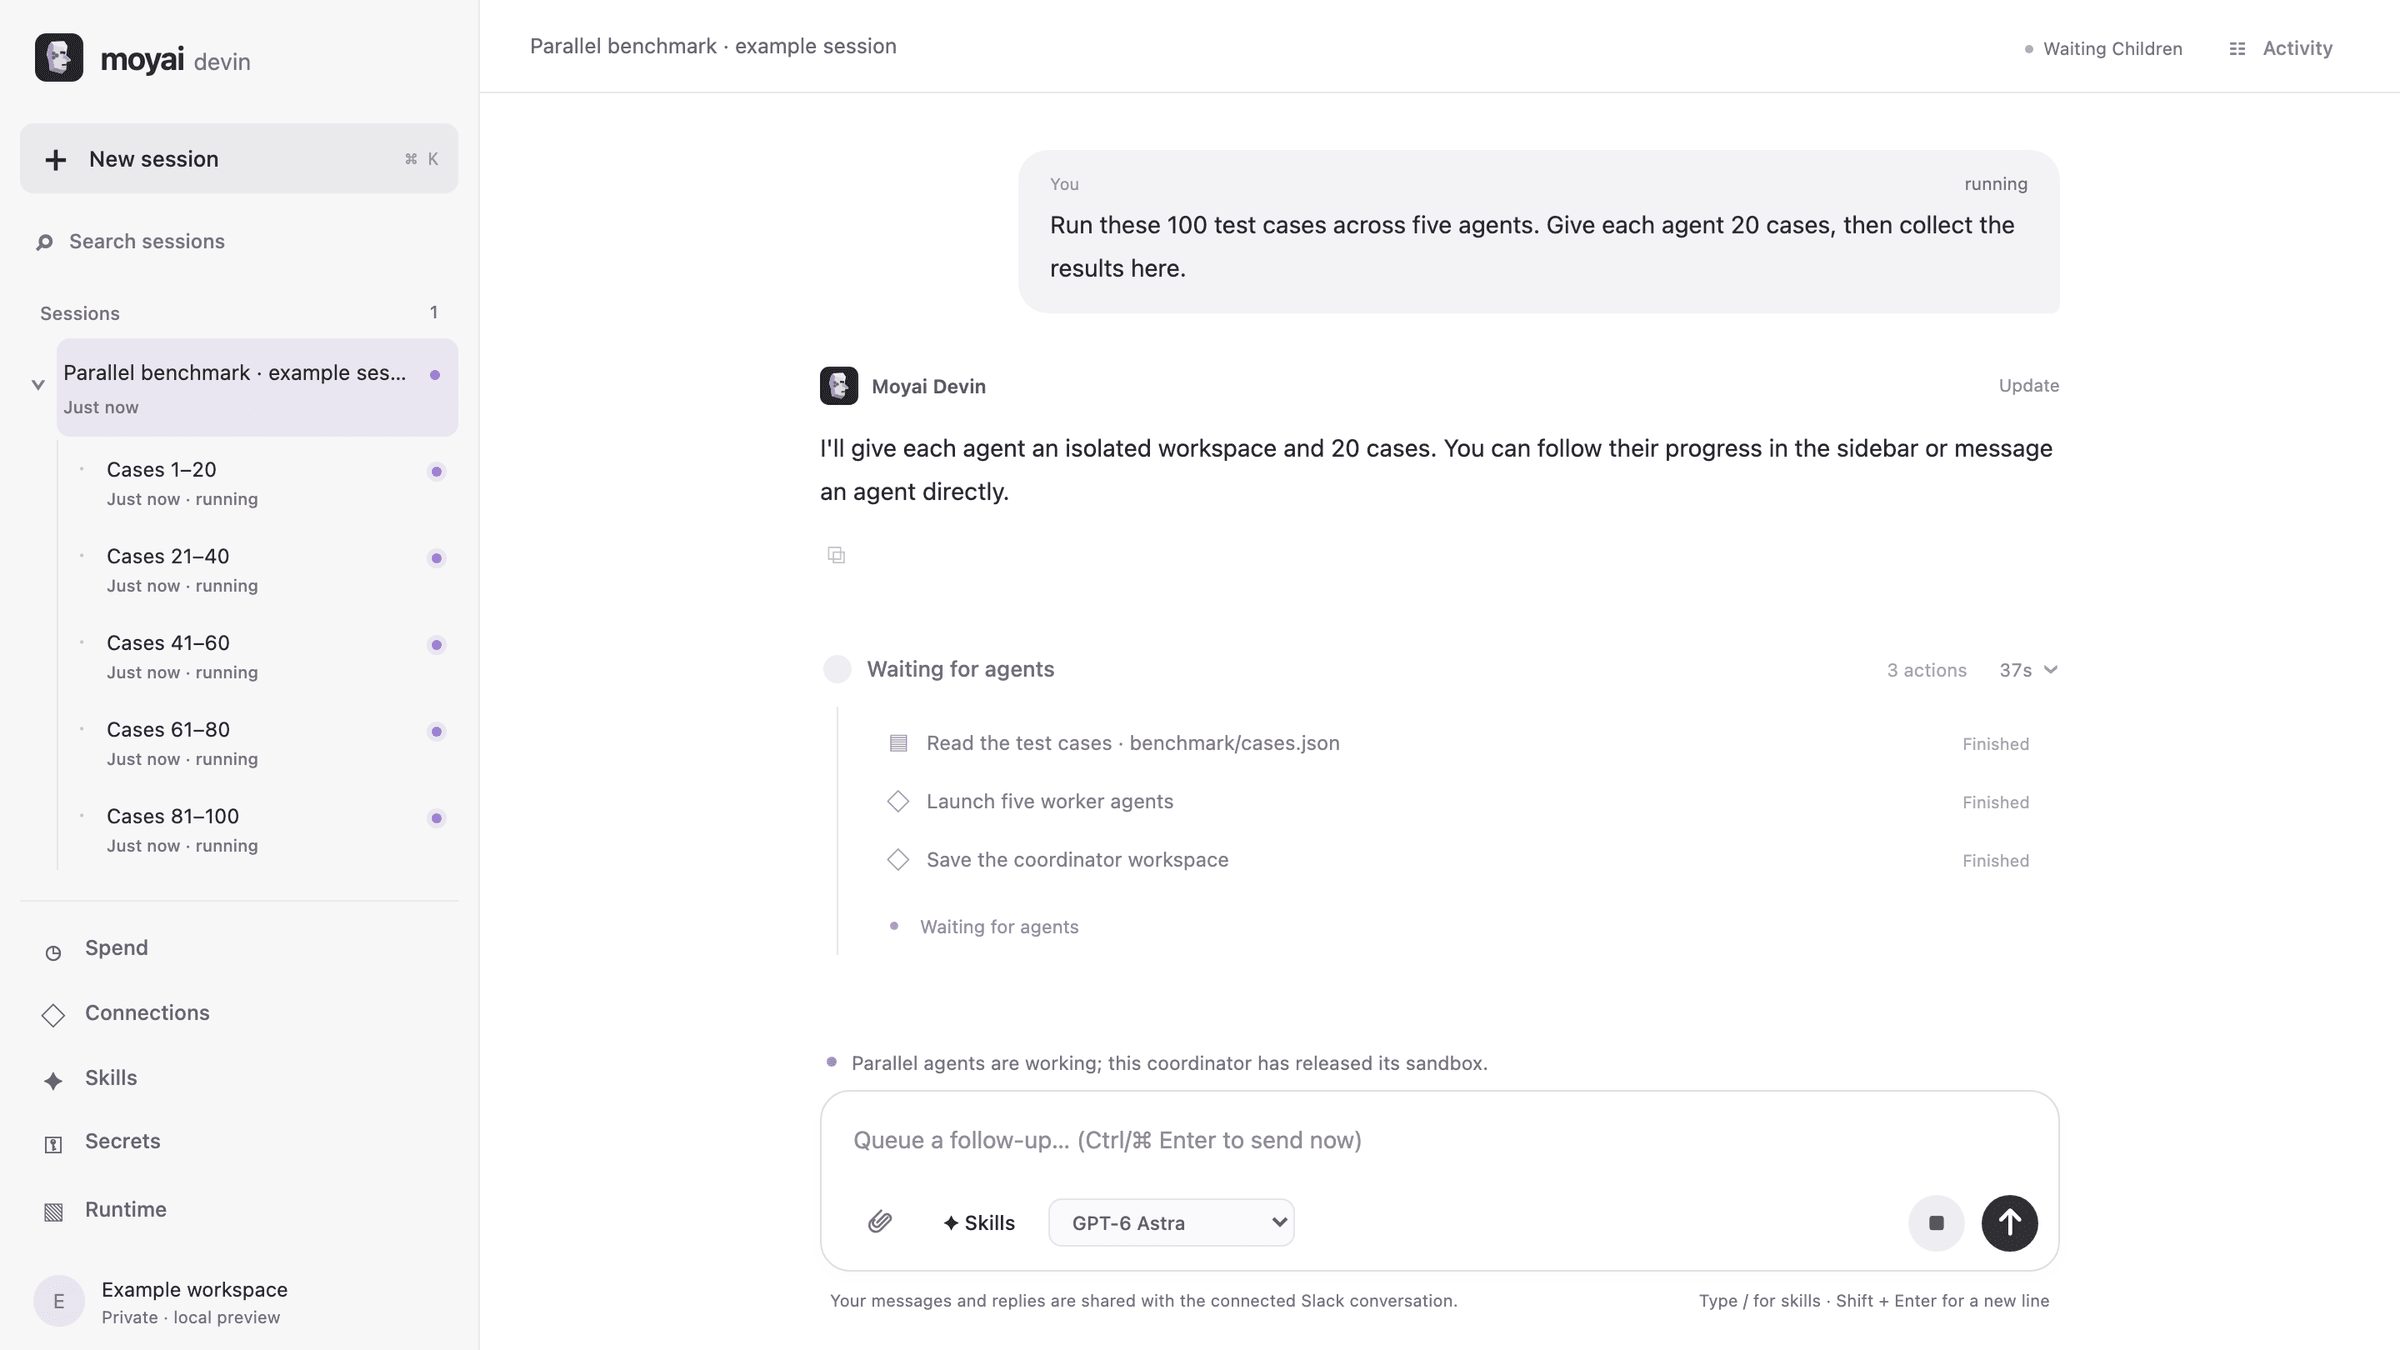
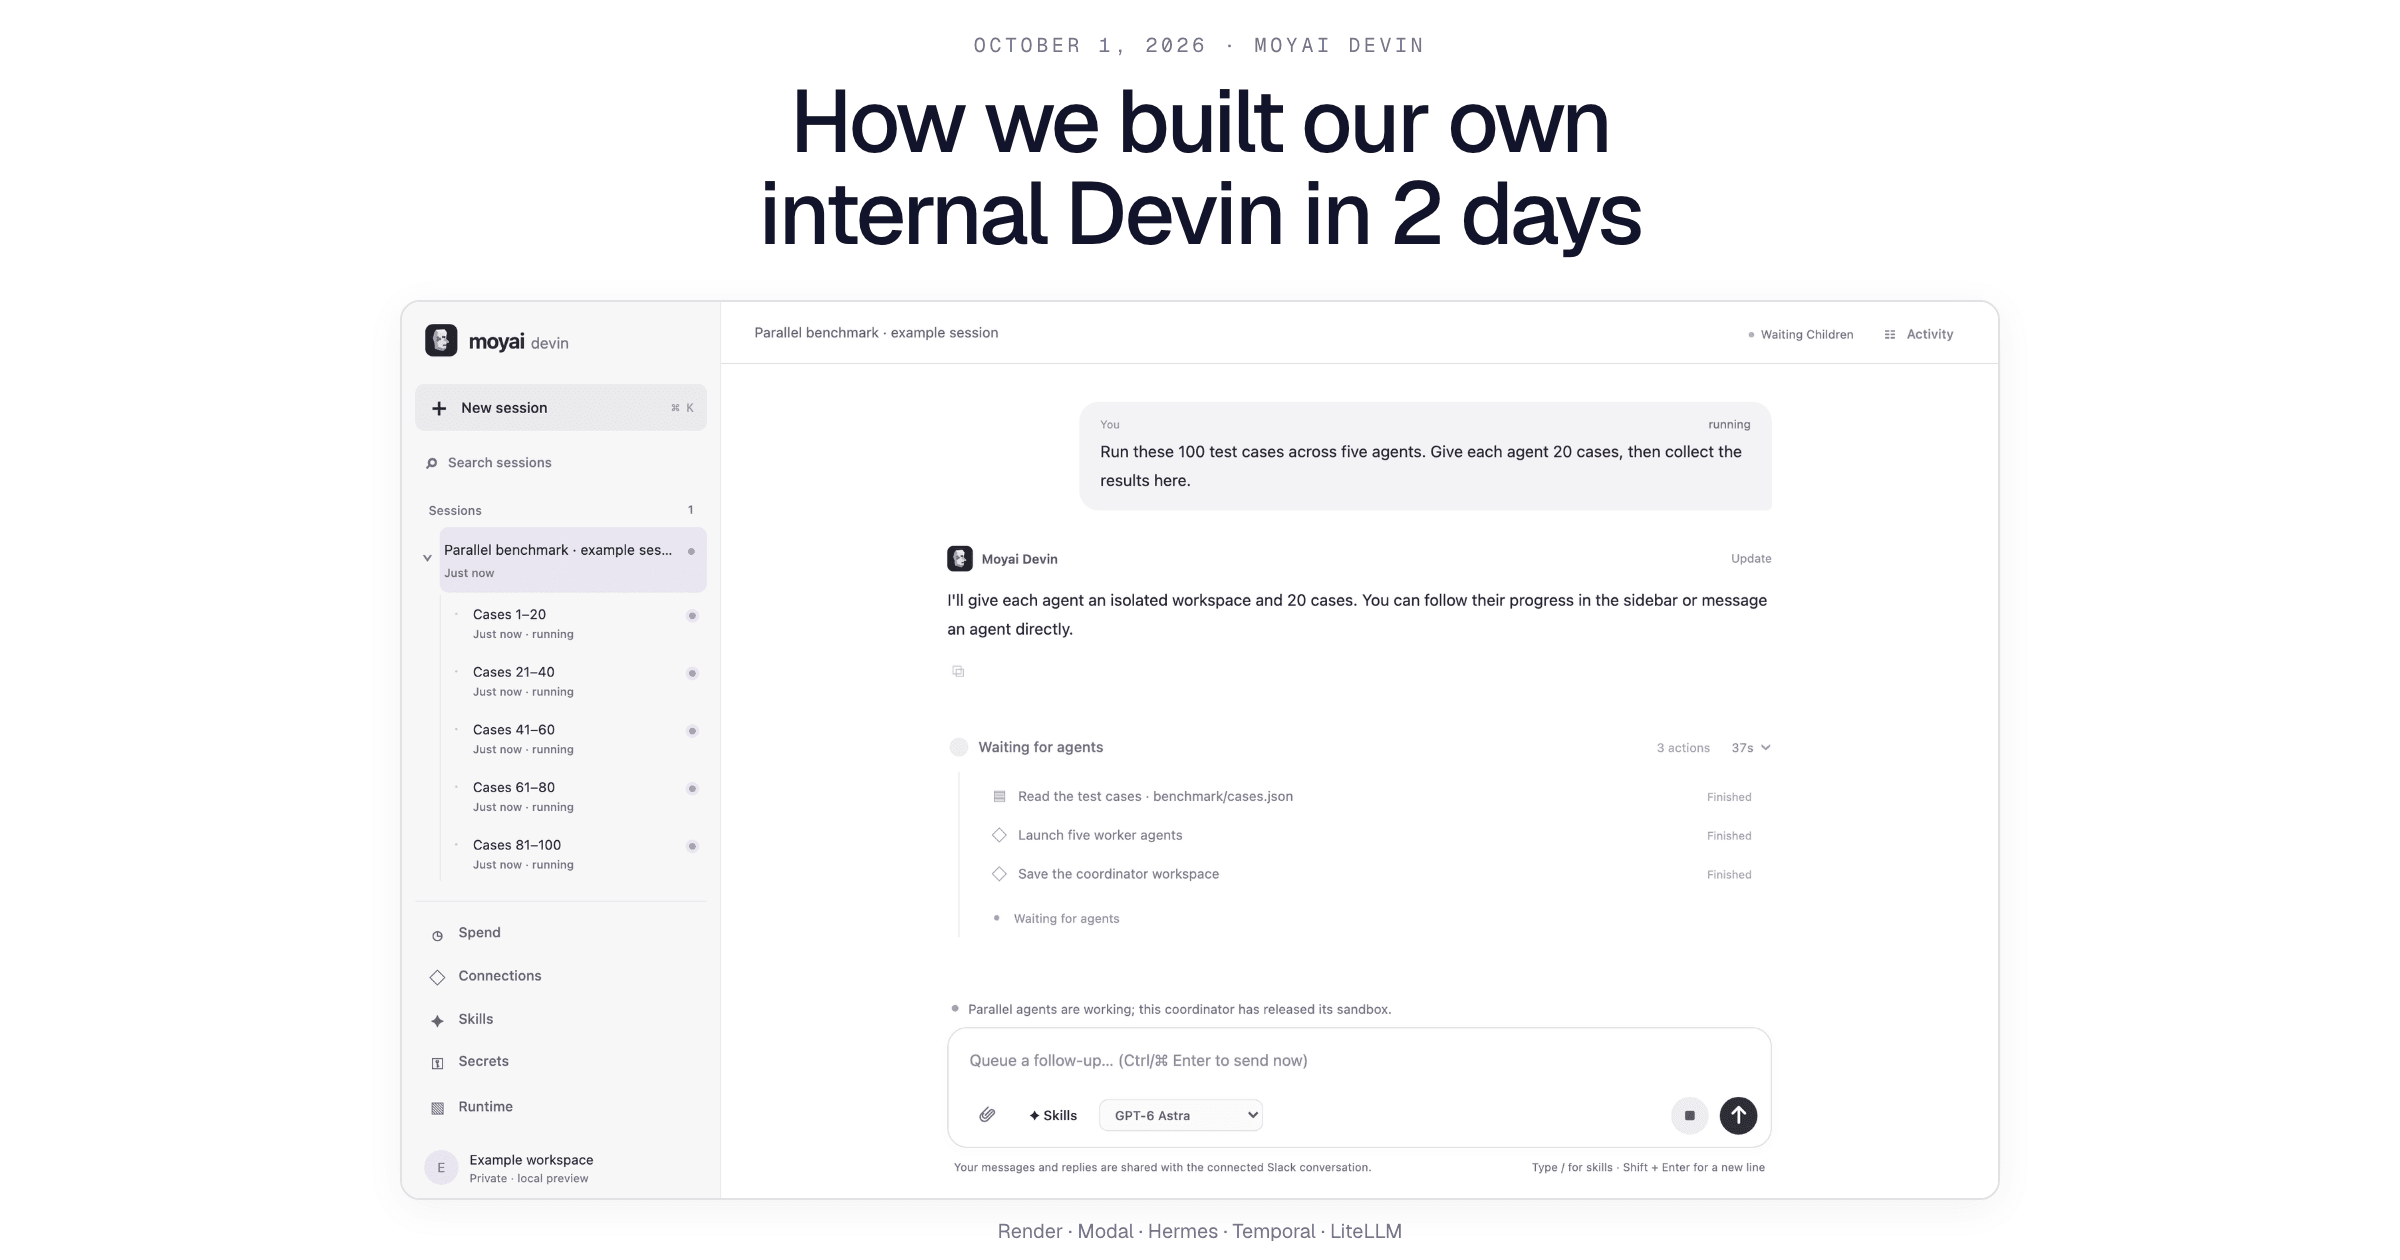
docs: match the Lens blog hero layout

diff --git a/blog/internal-devin-two-days/styles.module.css b/blog/internal-devin-two-days/styles.module.css
@@ -1,0 +1,139 @@
+/* The centered, full-width opening and section index follow the Lens launch. */
+.hero {
+  --ink: #12142b;
+  --muted: #6b6f8c;
+  --line: rgba(18, 20, 43, 0.12);
+  position: relative;
+  width: 100vw;
+  margin-left: calc(50% - 50vw);
+  padding: 64px 32px 0;
+  color: var(--ink);
+}
+
+:global([data-theme='dark']) .hero {
+  --ink: #eceefe;
+  --muted: #9296b8;
+  --line: rgba(236, 238, 254, 0.15);
+}
+
+.heading {
+  max-width: 1080px;
+  margin: 0 auto;
+  text-align: center;
+}
+
+.date {
+  display: block;
+  margin-bottom: 22px;
+  color: var(--muted);
+  font: 12px/1.4 var(--ifm-font-family-monospace);
+  letter-spacing: 0.18em;
+  text-transform: uppercase;
+}
+
+.heading .title {
+  margin: 0 auto !important;
+  max-width: 1040px;
+  color: var(--ink) !important;
+  font-size: clamp(38px, 5.2vw, 76px) !important;
+  line-height: 1.08 !important;
+  font-weight: 500 !important;
+  letter-spacing: -0.035em;
+  text-wrap: balance;
+}
+
+.heading .subtitle {
+  margin: 24px 0 0;
+  color: var(--muted);
+  font-size: clamp(15px, 1.7vw, 20px);
+  line-height: 1.5;
+}
+
+.product {
+  max-width: 1120px;
+  margin: 44px auto 0;
+}
+
+.window {
+  overflow: hidden;
+  border: 1px solid var(--line);
+  border-radius: 14px;
+  background: #fff;
+  box-shadow: 0 12px 32px rgba(18, 20, 43, 0.05);
+}
+
+.product .window img {
+  display: block;
+  width: 100%;
+  height: auto;
+  margin: 0;
+  border-radius: 0;
+}
+
+.product figcaption {
+  margin-top: 13px;
+  text-align: center;
+  color: var(--muted);
+  font-size: 12px;
+  line-height: 1.5;
+}
+
+.stack {
+  display: flex;
+  justify-content: space-between;
+  gap: 14px;
+  max-width: 900px;
+  margin: 36px auto 0;
+  padding: 20px 0;
+  border-top: 1px solid var(--line);
+  border-bottom: 1px solid var(--line);
+  color: var(--muted);
+  font: 13px/1.5 var(--ifm-font-family-monospace);
+}
+
+.contents {
+  max-width: 460px;
+  margin: 48px auto 32px;
+}
+
+.contents ol {
+  padding: 0;
+  margin: 0;
+  list-style: none;
+}
+
+.contents li {
+  margin: 0 0 10px;
+}
+
+.contents a {
+  display: flex;
+  align-items: baseline;
+  gap: 10px;
+  font-size: 16px;
+  font-variant-numeric: tabular-nums;
+  color: var(--ifm-font-color-base);
+  text-decoration: none;
+}
+
+.contents a:hover {
+  color: var(--ifm-color-primary);
+}
+
+.dots {
+  flex: 1;
+  border-bottom: 2px dotted var(--ifm-color-emphasis-400);
+  transform: translateY(-5px);
+}
+
+@media (max-width: 640px) {
+  .hero { padding: 40px 20px 0; }
+  .date { font-size: 10px; margin-bottom: 18px; }
+  .heading .subtitle { max-width: 300px; margin: 20px auto 0; }
+  .product { margin-top: 28px; }
+  .window { border-radius: 8px; }
+  .product figcaption { font-size: 10px; }
+  .stack { justify-content: center; flex-wrap: wrap; margin-top: 28px; font-size: 11px; gap: 10px 20px; }
+  .contents { margin-top: 32px; }
+  .contents a { font-size: 15px; }
+}

diff --git a/blog/internal-devin-two-days/MoyaiHero.js b/blog/internal-devin-two-days/MoyaiHero.js
@@ -1,0 +1,48 @@
+import React from 'react';
+import {useBlogPost} from '@docusaurus/plugin-content-blog/client';
+import workspace from './workspace.png';
+import styles from './styles.module.css';
+
+const sections = [
+  ['1-main-architecture', 'Main architecture'],
+  ['2-main-challenges', 'Main challenges'],
+  ['3-whats-next-and-what-id-recommend', "What's next"],
+];
+
+export default function MoyaiHero() {
+  const {metadata} = useBlogPost();
+  return (
+    <>
+      <header className={styles.hero}>
+        <div className={styles.heading}>
+          <time className={styles.date} dateTime="2026-10-01">October 1, 2026</time>
+          <h1 className={styles.title}>{metadata.title}</h1>
+          <p className={styles.subtitle}>An engineering agent our team can use from Slack or the web.</p>
+        </div>
+        <figure className={styles.product}>
+          <div className={styles.window}>
+            <img src={workspace} width="2400" height="1350" fetchPriority="high"
+              alt="Moyai Devin's web interface with a chat, five worker sessions in the sidebar, and tool activity." />
+          </div>
+          <figcaption>The Moyai Devin interface, shown with an example session.</figcaption>
+        </figure>
+        <div className={styles.stack} aria-label="The five services">
+          <span>Render</span><span>Modal</span><span>Hermes</span><span>Temporal</span><span>LiteLLM</span>
+        </div>
+      </header>
+      <nav className={styles.contents} aria-label="In this post">
+        <ol>
+          {sections.map(([id, label], index) => (
+            <li key={id}>
+              <a href={`#${id}`}>
+                <span>[{index + 1}]</span>
+                <span className={styles.dots} aria-hidden="true" />
+                <span>{label}</span>
+              </a>
+            </li>
+          ))}
+        </ol>
+      </nav>
+    </>
+  );
+}

diff --git a/blog/internal-devin-two-days/index.md b/blog/internal-devin-two-days/index.md
@@ -7,12 +7,16 @@ authors:
 description: "How we built Moyai Devin with Render, Modal, Hermes, Temporal, and LiteLLM: durable sessions, parallel agents, Slack, and shared organization connections."
 tags: [engineering, agents, infrastructure, slack]
 image: ./hero.png
-hide_table_of_contents: false
+hide_table_of_contents: true
+custom_hero: true
 ---
 
-![Moyai Devin's web interface with a chat, five worker sessions in the sidebar, and tool activity.](./hero.png)
+import MoyaiHero from './MoyaiHero';
+import {PostByline} from '@theme/BlogPostPage';
 
-*The Moyai Devin interface, shown with an example session.*
+<MoyaiHero />
+
+<PostByline />
 
 At BerriAI, we built **Moyai Devin**, an internal engineering agent that runs in the cloud. Teammates can give it a task in Slack, follow its progress in a web app, and ask it to prepare a pull request.
 
